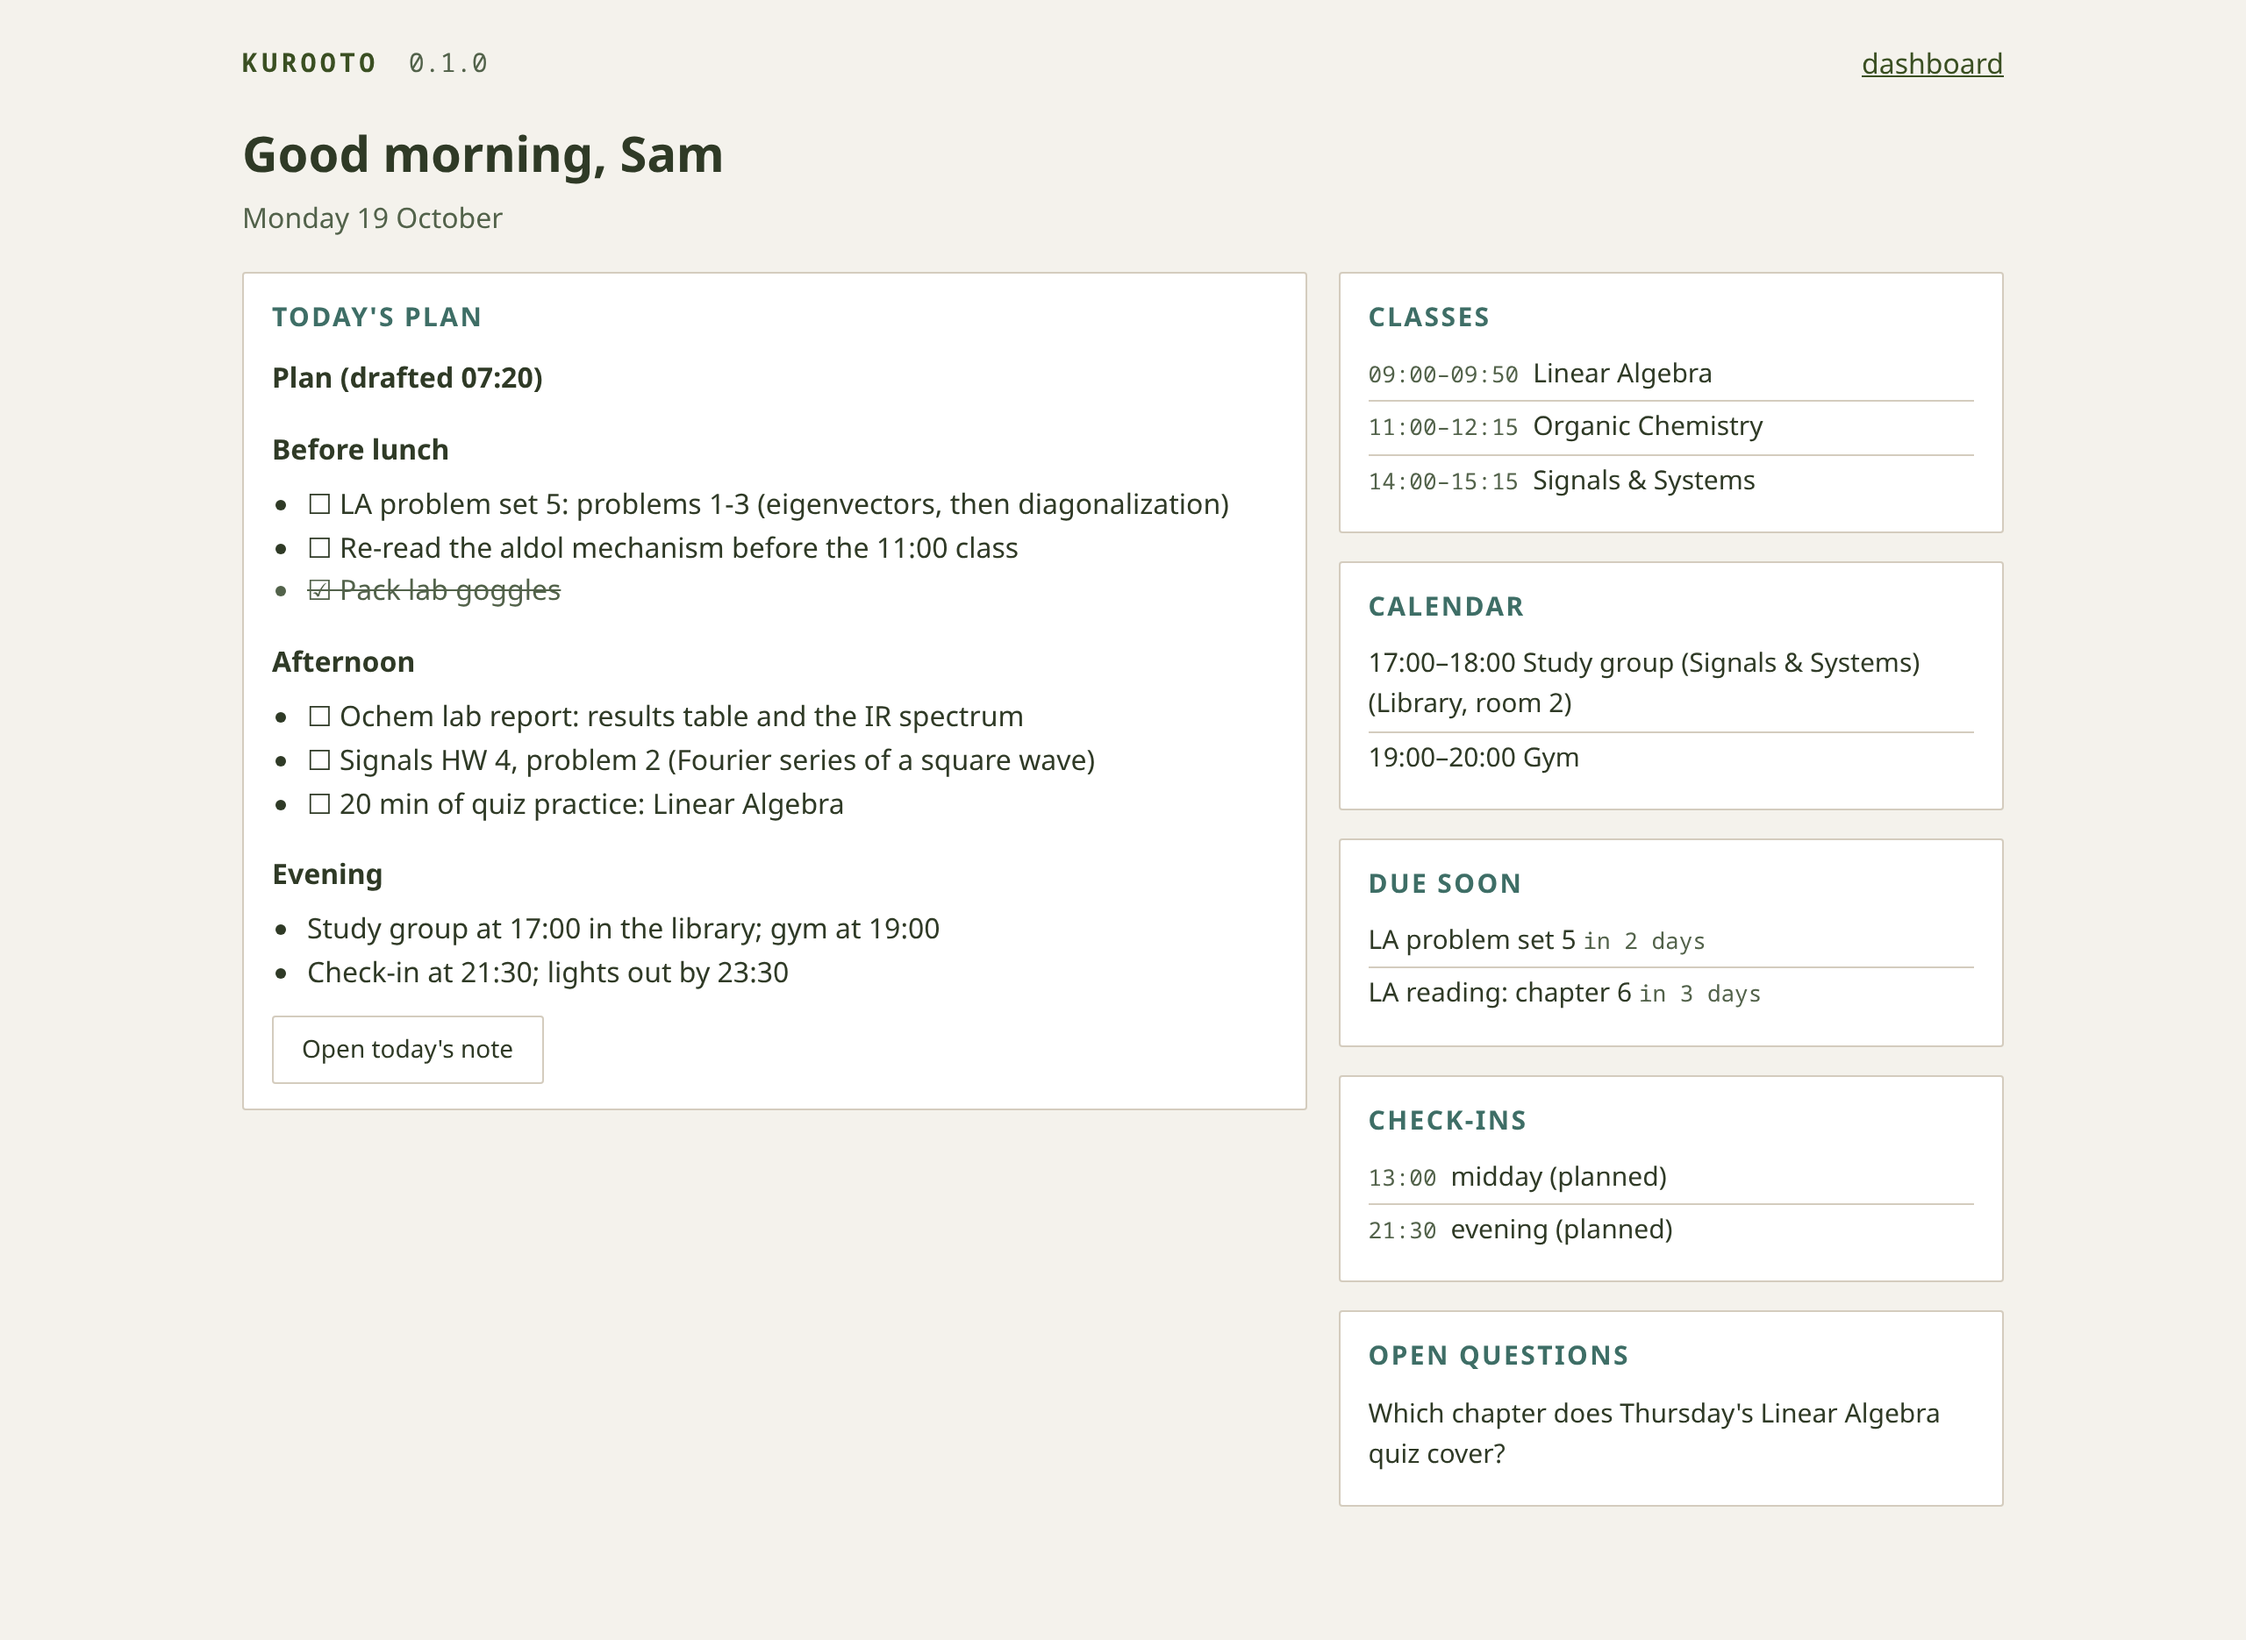
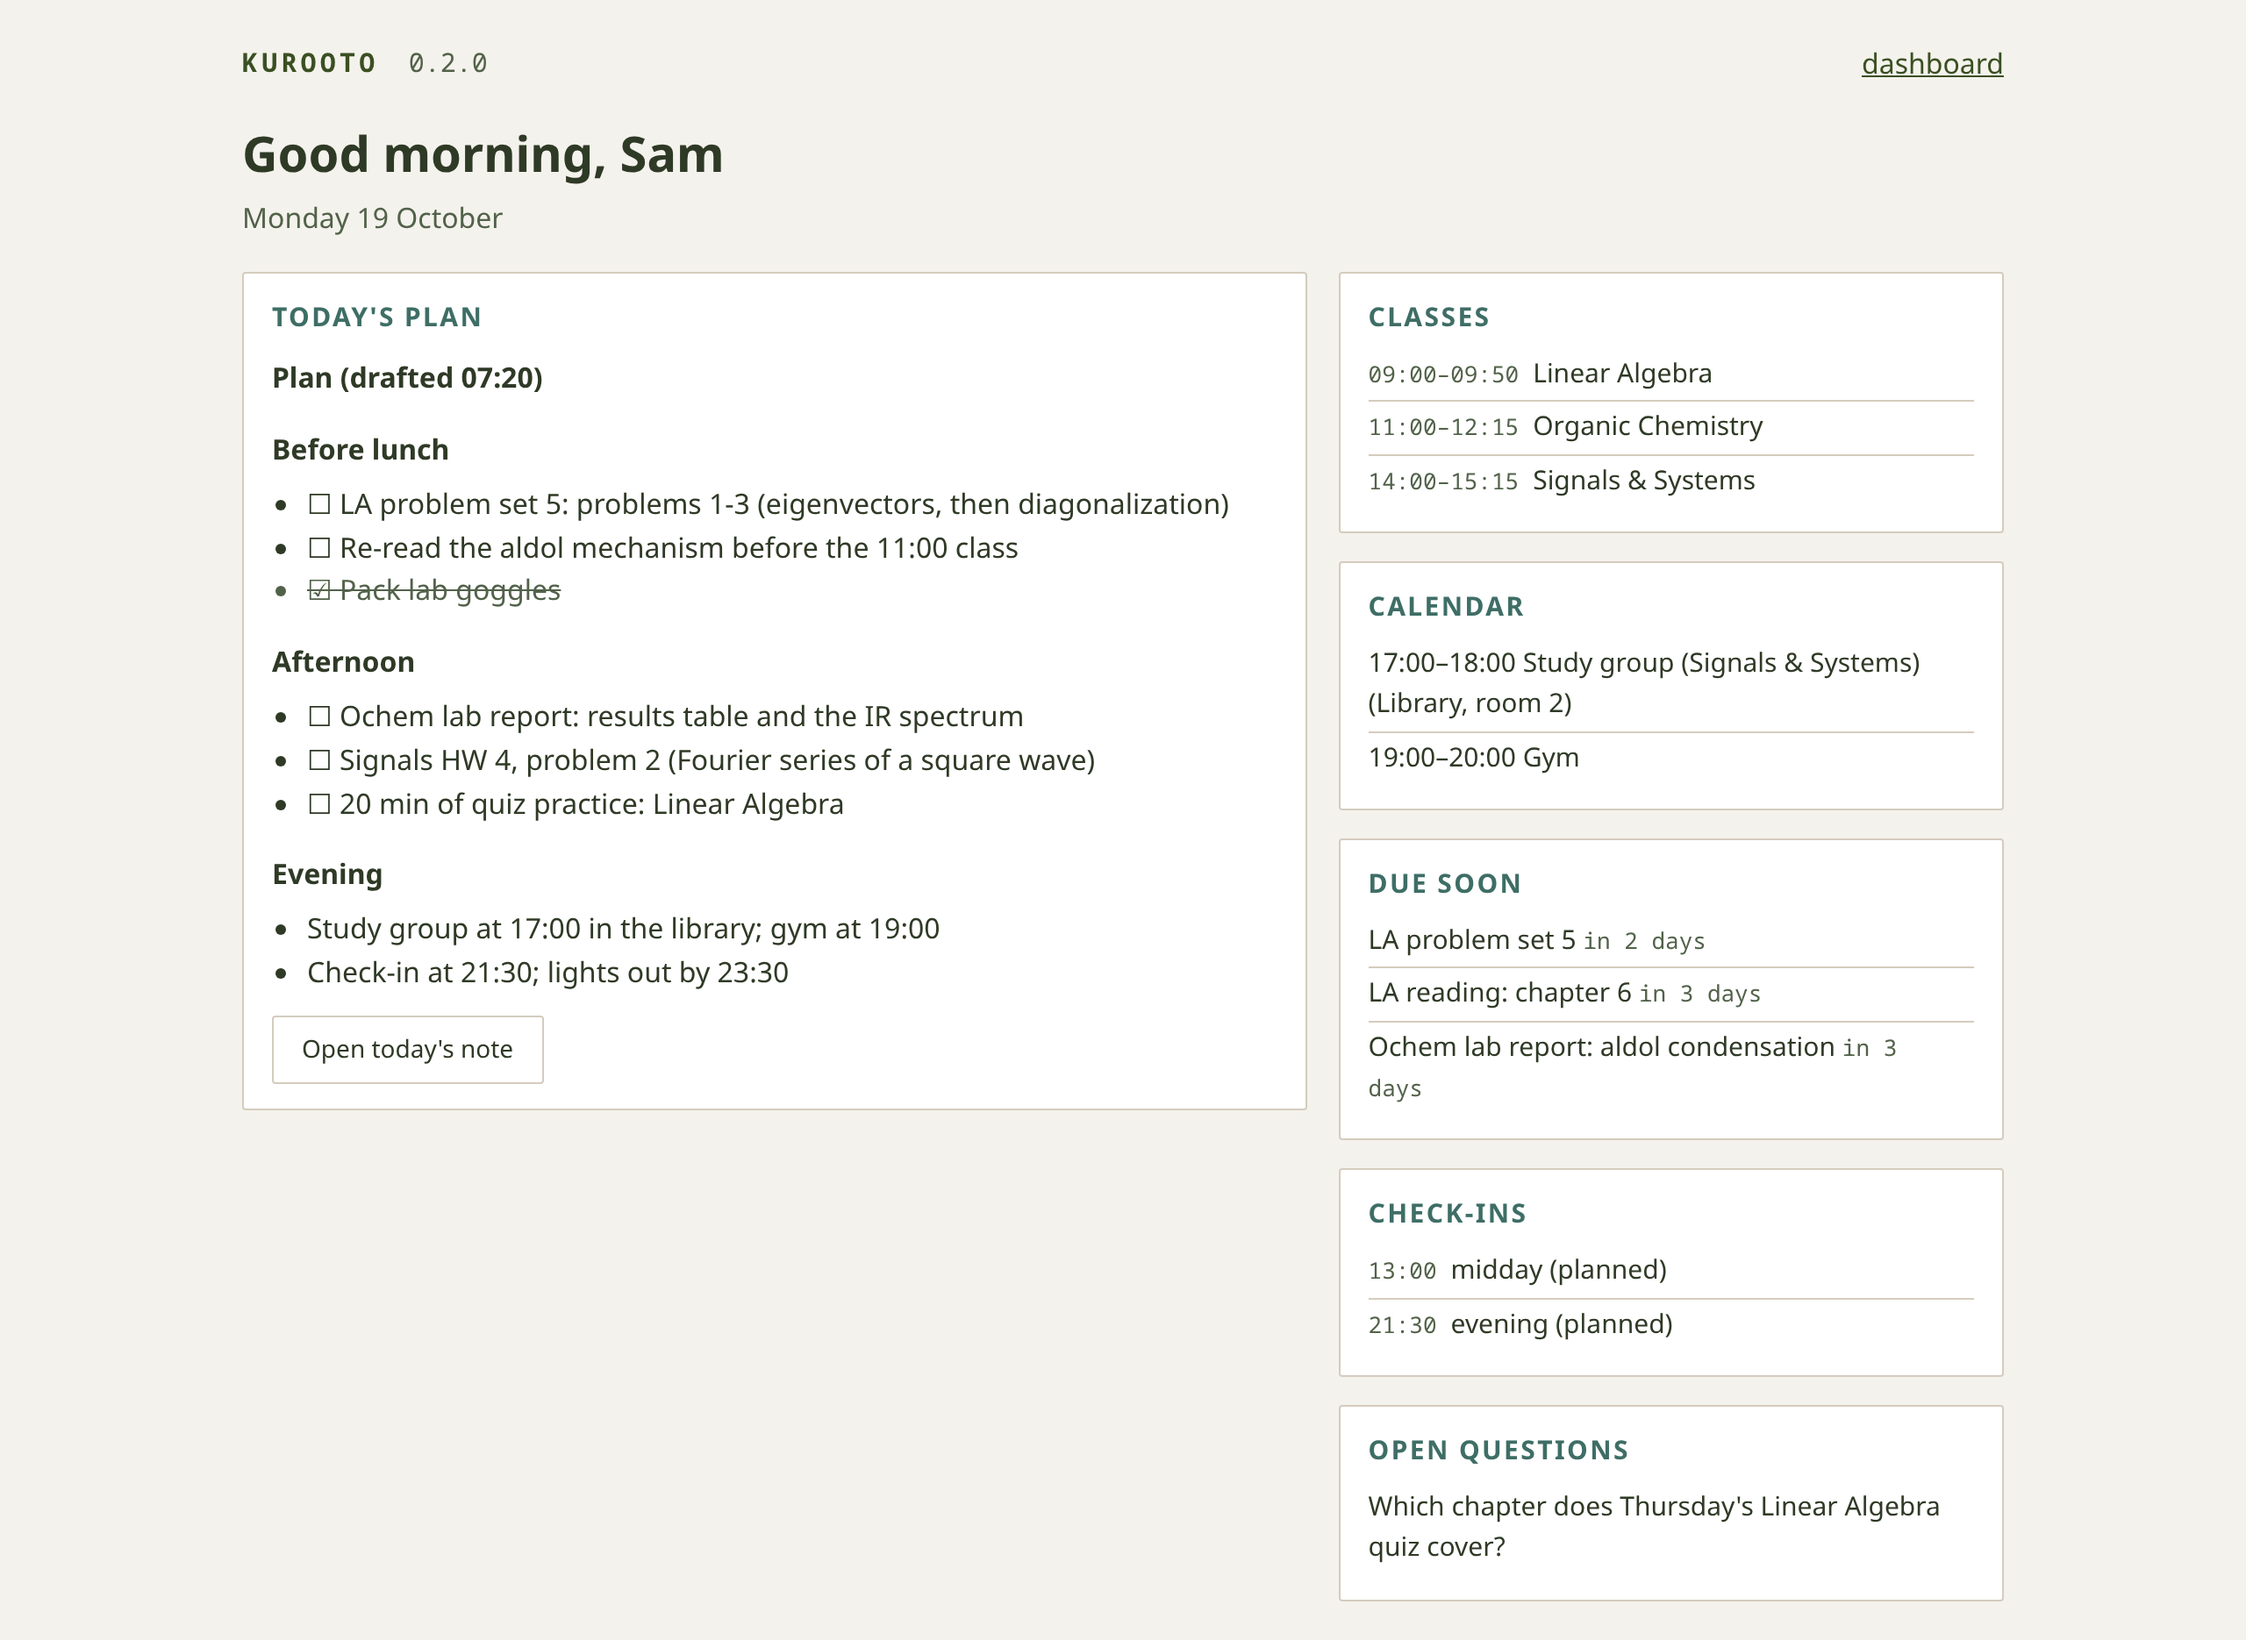
Showcase: screenshots re-shot on 0.2.0
The dashboard, setup, morning and terminal screenshots showed "KUROOTO 0.1.0". Re-shot from this tree with the
same made-up demo (Sam), same sizes and lossless WebP, except two whose content grew: setup-welcome (the new "I've
used Kurooto before" box; 2080x1379) and setup-features (2080x2859, the landing page's size attributes follow).
The second example chat carries 0.2.0's evening check-in question and the Gemini key's label. The phone pages, the
first example chat and the Systems loop are unchanged (no version, same pixels or the same cells).

Changed region(s): [[0.5938, 0.6203, 0.875, 0.9615]]

diff --git a/installer/index.html b/installer/index.html
@@ -376,9 +376,9 @@ h1, h2, h3 { color: var(--text-bright); font-weight: 700; }
             <p class="interest-desc">Your AI's own program, a shell, plain English and Kurooto's log, for a computer that's yours alone.</p></figcaption>
         </figure>
         <figure class="shot-card">
-          <a href="media/setup-features.webp"><img class="crop shot-dark" src="media/setup-features.webp" width="2080" height="2786" loading="lazy" decoding="async"
+          <a href="media/setup-features.webp"><img class="crop shot-dark" src="media/setup-features.webp" width="2080" height="2859" loading="lazy" decoding="async"
             alt="The setup wizard's features step: each feature as a card saying what it does and what leaves the computer, with a recommended Starter set."><img
-            class="crop shot-light" src="media/setup-features-light.webp" width="2080" height="2786" loading="lazy" decoding="async"
+            class="crop shot-light" src="media/setup-features-light.webp" width="2080" height="2859" loading="lazy" decoding="async"
             alt="The setup wizard's features step, in the light theme."></a>
           <figcaption><h3 class="interest-title">Only what you turn on</h3>
             <p class="interest-desc">Each feature says what it does and what leaves your computer. Start with the recommended set and add more later.</p></figcaption>
